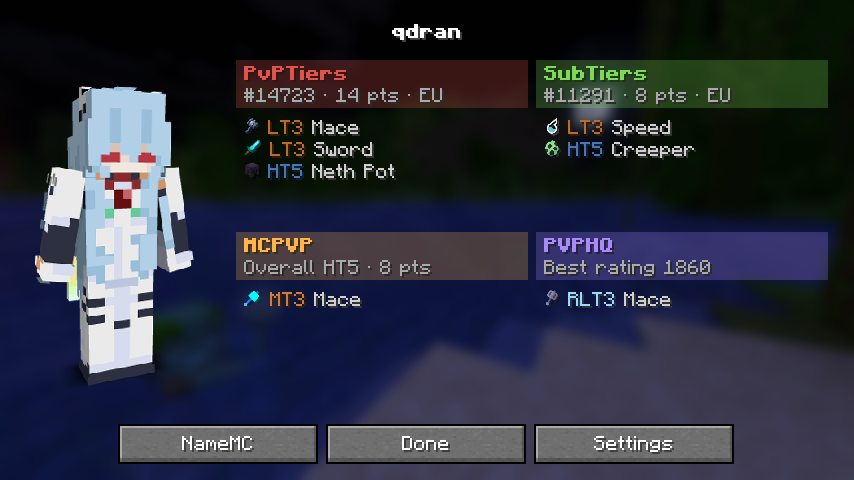
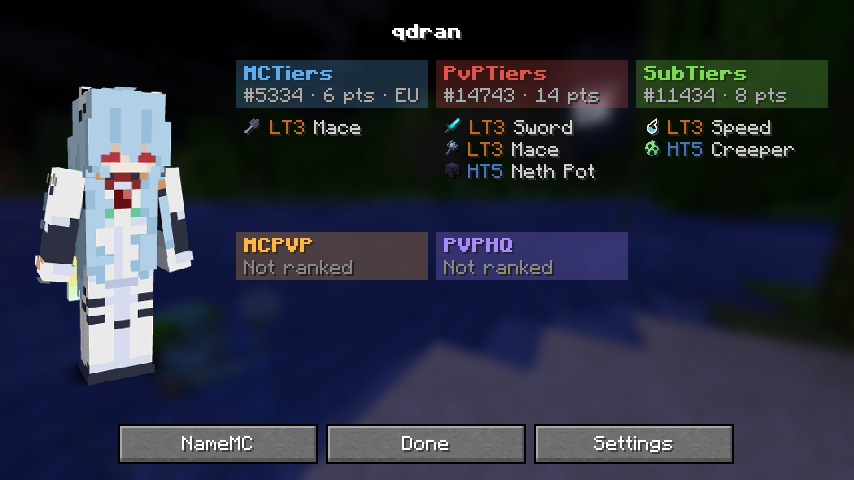
Bring back MCTiers via mctiers.gg
MCTiers returned at mctiers.gg with its API at /api/profile/<uuid> and
/api/profile/by-name/<name> (same format as before). It sends Neth OP
twice ("nethop" and "neth_pot"), so the duplicate is merged. Uses
MCTiers' own icons from mctiers.gg/tier_icons, defaults to the left of
the name, and gets a gamemode-cycle keybind. The profile screen uses
three columns for five sites; the settings screen shrinks its buttons
slightly on short windows so five sites still fit.

Changed region(s): [[0.274, 0.125, 0.9438, 0.375], [0.274, 0.4688, 0.9742, 0.6562]]

diff --git a/src/main/java/dev/qtiers/QTiersConfigScreen.java b/src/main/java/dev/qtiers/QTiersConfigScreen.java
@@ -19,11 +19,13 @@ import java.util.function.Consumer;
 public class QTiersConfigScreen extends Screen {
     private static final int BUTTON_W = 150;
     private static final int BUTTON_H = 20;
+    private static final int COMPACT_BUTTON_H = 18;
     private static final int GAP = 4;
-    // Full layout needs ~292px; shorter windows (e.g. GUI scale 2 on 480p) use tight spacing and no subtitle
-    private static final int FULL_LAYOUT_HEIGHT = 296;
+    // Full layout needs ~316px; shorter windows (e.g. GUI scale 2 on 480p) use smaller buttons, tight spacing and no subtitle
+    private static final int FULL_LAYOUT_HEIGHT = 320;
 
     private int rowGap = GAP;
+    private int buttonH = BUTTON_H;
     private boolean compact;
 
     private final @Nullable Screen parent;
@@ -40,6 +42,7 @@ public class QTiersConfigScreen extends Screen {
         int right = width / 2 + GAP / 2;
         compact = height < FULL_LAYOUT_HEIGHT;
         rowGap = compact ? 1 : GAP;
+        buttonH = compact ? COMPACT_BUTTON_H : BUTTON_H;
         int sectionGap = compact ? 1 : 8;
         int y = compact ? 17 : 40;
 
@@ -49,28 +52,28 @@ public class QTiersConfigScreen extends Screen {
             Text label = Text.literal(source.displayName).styled(s -> s.withColor(source.color));
             addDrawableChild(CyclingButtonWidget.<Position>builder(QTiersConfigScreen::positionText, site.position)
                     .values(Arrays.asList(Position.values()))
-                    .build(left, y, BUTTON_W, BUTTON_H, label, (b, v) -> {
+                    .build(left, y, BUTTON_W, buttonH, label, (b, v) -> {
                         site.position = v;
                         QTiersConfig.save();
                     }));
             List<String> modes = GameModes.cycleFor(source);
             addDrawableChild(CyclingButtonWidget.<String>builder(mode -> GameModes.styledName(source, mode), site.gamemode)
                     .values(modes)
-                    .build(right, y, BUTTON_W, BUTTON_H, Text.literal("Mode"), (b, v) -> {
+                    .build(right, y, BUTTON_W, buttonH, Text.literal("Mode"), (b, v) -> {
                         site.gamemode = v;
                         QTiersConfig.save();
                     }));
-            y += BUTTON_H + rowGap;
+            y += buttonH + rowGap;
         }
 
         y += sectionGap;
         addDrawableChild(CyclingButtonWidget.<HighestMode>builder(QTiersConfigScreen::highestText, config.highestMode)
                 .values(Arrays.asList(HighestMode.values()))
-                .build(left, y, BUTTON_W * 2 + GAP, BUTTON_H, Text.literal("Show highest tier"), (b, v) -> {
+                .build(left, y, BUTTON_W * 2 + GAP, buttonH, Text.literal("Show highest tier"), (b, v) -> {
                     config.highestMode = v;
                     QTiersConfig.save();
                 }));
-        y += BUTTON_H + rowGap;
+        y += buttonH + rowGap;
 
         y = toggle(left, y, "Enabled", config.enabled, v -> config.enabled = v, false);
         y = toggle(right, y, "Gamemode icons", config.showIcons, v -> config.showIcons = v, true);
@@ -80,21 +83,21 @@ public class QTiersConfigScreen extends Screen {
         y = toggle(right, y, "Colored separator", config.coloredSeparator, v -> config.coloredSeparator = v, true);
         y = toggle(left, y, "Show retired", config.showRetired, v -> config.showRetired = v, false);
         addDrawableChild(ButtonWidget.builder(Text.literal("Refresh tiers"), b -> TierApi.clearCache())
-                .dimensions(right, y, BUTTON_W, BUTTON_H).build());
-        y += BUTTON_H + rowGap + sectionGap;
+                .dimensions(right, y, BUTTON_W, buttonH).build());
+        y += buttonH + rowGap + sectionGap;
 
         addDrawableChild(ButtonWidget.builder(Text.translatable("gui.done"), b -> close())
-                .dimensions(width / 2 - 100, Math.min(y, height - 28), 200, BUTTON_H).build());
+                .dimensions(width / 2 - 100, Math.min(y, height - 28), 200, buttonH).build());
     }
 
     /** Adds an on/off button; returns the next row's y once the right column is filled. */
     private int toggle(int x, int y, String name, boolean value, Consumer<Boolean> setter, boolean endsRow) {
         addDrawableChild(CyclingButtonWidget.onOffBuilder(value)
-                .build(x, y, BUTTON_W, BUTTON_H, Text.literal(name), (b, v) -> {
+                .build(x, y, BUTTON_W, buttonH, Text.literal(name), (b, v) -> {
                     setter.accept(v);
                     QTiersConfig.save();
                 }));
-        return endsRow ? y + BUTTON_H + rowGap : y;
+        return endsRow ? y + buttonH + rowGap : y;
     }
 
     private static Text positionText(Position p) {

diff --git a/src/main/java/dev/qtiers/TierParsers.java b/src/main/java/dev/qtiers/TierParsers.java
@@ -55,6 +55,19 @@ final class TierParsers {
         return Optional.of(new TierProfile(strOr(json, "name", ""), summary, region(strOr(json, "region", "")), rankings));
     }
 
+    // ---------- MCTiers (mctiers.gg): same format, but Neth OP is sent twice, as "nethop" and "neth_pot" ----------
+
+    static Optional<TierProfile> mctiers(int status, URI uri, String body) {
+        return tierList(status, uri, body).map(p -> {
+            Map<String, Ranking> rankings = new LinkedHashMap<>(p.rankings());
+            Ranking alias = rankings.remove("neth_pot");
+            if (alias != null && !rankings.containsKey("nethop")) {
+                rankings.put("nethop", new Ranking("nethop", alias.tier(), alias.pos(), alias.peakTier(), alias.peakPos(), alias.retired()));
+            }
+            return new TierProfile(p.name(), p.summary(), p.region(), rankings);
+        });
+    }
+
     // ---------- PVPHQ: {"name", "regions": [...], "ranked": [{gametype, tier: "LT3", unranked, inactive, rating}], "best": {...}} ----------
 
     static Optional<TierProfile> pvphq(int status, URI uri, String body) {

diff --git a/src/main/java/dev/qtiers/GameModes.java b/src/main/java/dev/qtiers/GameModes.java
@@ -23,6 +23,7 @@ public final class GameModes {
     private static final Map<String, Mode> MODES = Map.ofEntries(
             mode("axe", "Axe", 0x55FF55),
             mode("mace", "Mace", 0xAAAAAA),
+            mode("nethop", "Neth OP", 0x7D4A40),
             mode("neth_pot", "Neth Pot", 0x7D4A40),
             mode("netherite_pot", "Neth Pot", 0x7D4A40),
             mode("pot", "Pot", 0xFF0000),
@@ -53,6 +54,7 @@ public final class GameModes {
             mode("end_game", "End Game", 0xB070E0));
 
     private static final Map<TierSource, List<String>> BY_SOURCE = Map.of(
+            TierSource.MCTIERS, List.of("vanilla", "uhc", "pot", "nethop", "smp", "sword", "axe", "mace"),
             TierSource.PVPTIERS, List.of("crystal", "sword", "uhc", "pot", "neth_pot", "smp", "axe", "mace"),
             TierSource.SUBTIERS, List.of("minecart", "dia_crystal", "debuff", "elytra", "speed", "creeper",
                     "manhunt", "dia_smp", "bow", "bed", "og_vanilla", "trident"),

diff --git a/src/main/java/dev/qtiers/QTiersProfileScreen.java b/src/main/java/dev/qtiers/QTiersProfileScreen.java
@@ -131,10 +131,10 @@ public class QTiersProfileScreen extends Screen {
         int skinPanel = Math.max(90, width / 4);
         renderSkin(context, 10, top, skinPanel - 10, bottom - top);
 
-        // Sites in a 2-column grid (4 sites = 2x2), each panel getting an equal share of the height
+        // Sites in a grid (4 sites = 2x2, 5-6 sites = 3 columns), each panel getting an equal share of the height
         TierSource[] sources = TierSource.values();
         int gridX = skinPanel + 10;
-        int cols = 2;
+        int cols = sources.length > 4 ? 3 : 2;
         int rows = (sources.length + cols - 1) / cols;
         int cellW = (width - gridX - 10) / cols;
         int cellH = (bottom - top) / rows;

diff --git a/src/main/java/dev/qtiers/TierSource.java b/src/main/java/dev/qtiers/TierSource.java
@@ -5,6 +5,10 @@ import java.util.function.Function;
 
 /** The tier-list websites, where to look players up, and how to read each site's answer. */
 public enum TierSource {
+    MCTIERS("MCTiers", "MC", 0x5DADEC,
+            uuid -> "https://mctiers.gg/api/profile/" + undashed(uuid),
+            name -> "https://mctiers.gg/api/profile/by-name/" + name,
+            TierParsers::mctiers),
     PVPTIERS("PvPTiers", "PVP", 0xE0544E,
             uuid -> "https://pvptiers.com/api/profile/" + undashed(uuid),
             name -> "https://pvptiers.com/api/search_profile/" + name,

diff --git a/src/main/java/dev/qtiers/QTiers.java b/src/main/java/dev/qtiers/QTiers.java
@@ -46,6 +46,7 @@ public class QTiers implements ClientModInitializer {
     public void onInitializeClient() {
         QTiersConfig.load();
 
+        CYCLE_KEYS.put(TierSource.MCTIERS, key("cycle_mctiers", GLFW.GLFW_KEY_UNKNOWN));
         CYCLE_KEYS.put(TierSource.PVPTIERS, key("cycle_pvptiers", GLFW.GLFW_KEY_UNKNOWN));
         CYCLE_KEYS.put(TierSource.SUBTIERS, key("cycle_subtiers", GLFW.GLFW_KEY_UNKNOWN));
         CYCLE_KEYS.put(TierSource.MCPVP, key("cycle_mcpvp", GLFW.GLFW_KEY_UNKNOWN));

diff --git a/src/main/java/dev/qtiers/QTiersConfig.java b/src/main/java/dev/qtiers/QTiersConfig.java
@@ -47,6 +47,7 @@ public final class QTiersConfig {
 
     private static Map<TierSource, SiteSettings> defaultSites() {
         Map<TierSource, SiteSettings> map = new EnumMap<>(TierSource.class);
+        map.put(TierSource.MCTIERS, new SiteSettings(Position.LEFT));
         map.put(TierSource.PVPTIERS, new SiteSettings(Position.LEFT));
         map.put(TierSource.SUBTIERS, new SiteSettings(Position.RIGHT));
         map.put(TierSource.MCPVP, new SiteSettings(Position.RIGHT));

diff --git a/README.md b/README.md
@@ -2,17 +2,17 @@
 
 # QTiers
 
-A Fabric client mod for **Minecraft 1.21.11**. It shows **PvPTiers**, **SubTiers**, **MCPVP** and **PVPHQ** rankings together next to player names. It works like TierTagger, but for all four sites at once.
+A Fabric client mod for **Minecraft 1.21.11**. It shows **MCTiers**, **PvPTiers**, **SubTiers**, **MCPVP** and **PVPHQ** rankings together next to player names. It works like TierTagger, but for all five sites at once.
 
 ```
-⚔HT3 | Steve | ⛏HT4 ⚔MT3 🪓LT2
-PvPTiers        SubTiers MCPVP PVPHQ
+⚔HT2 ⚔HT3 | Steve | ⛏HT4 ⚔MT3 🪓LT2
+MCTiers PvPTiers        SubTiers MCPVP PVPHQ
 ```
 
 ![Profile screen](profile-screen.png)
 
 ## Features
-- **All 4 sites at once** in nametags and the tab list. Put each site on the **left** or **right** of the name, or turn it **off**.
+- **All 5 sites at once** in nametags and the tab list. Put each site on the **left** or **right** of the name, or turn it **off**.
 - **Player profile screen** (`/qtiers <player>`): a full-body skin render, plus every tier, peak, points, rank and region from every site. It has a button to open the player's NameMC page.
 - **A separate gamemode for each site**, or **Highest**. Fallback rules match TierTagger: *Never*, *If not ranked in mode*, or *Always*.
 - **Each tier list has its own icons**, taken from its own website. Tiers use **MCPVP's colors** for High/Mid/Low tiers 1–6 (HT1 gold, HT2 silver, HT3 orange, HT4 green, HT5 blue, HT6 brown). Retired tiers show as `RHT1` in light blue.
@@ -28,7 +28,7 @@ PvPTiers        SubTiers MCPVP PVPHQ
 | Action | Default |
 |---|---|
 | Open nearest player's tiers | H |
-| Cycle PvPTiers / SubTiers / MCPVP / PVPHQ gamemode | unbound |
+| Cycle MCTiers / PvPTiers / SubTiers / MCPVP / PVPHQ gamemode | unbound |
 | Toggle QTiers | unbound |
 | Open settings | unbound |
 
@@ -42,9 +42,9 @@ gradlew build
 The jar is written to `build/libs/`.
 
 ## Credits
-- Gamemode icons: from each tier list's own website ([PvPTiers](https://pvptiers.com), [SubTiers](https://subtiers.net), [MCPVP](https://www.mcpvp.com), [PVPHQ](https://pvphq.com)). They belong to those sites.
+- Gamemode icons: from each tier list's own website ([MCTiers](https://mctiers.gg), [PvPTiers](https://pvptiers.com), [SubTiers](https://subtiers.net), [MCPVP](https://www.mcpvp.com), [PVPHQ](https://pvphq.com)). They belong to those sites.
 - Tier colors: from mcpvp.com.
-- Tier data: [PvPTiers](https://pvptiers.com) and [SubTiers](https://subtiers.net) public APIs, the [PVPHQ](https://pvphq.com) API, and public [MCPVP](https://www.mcpvp.com) profile pages (MCPVP has no API).
+- Tier data: [MCTiers](https://mctiers.gg), [PvPTiers](https://pvptiers.com) and [SubTiers](https://subtiers.net) public APIs, the [PVPHQ](https://pvphq.com) API, and public [MCPVP](https://www.mcpvp.com) profile pages (MCPVP has no API).
 - Skin renders: [Visage](https://visage.surgeplay.com), with [mc-heads](https://mc-heads.net) as the fallback.
 - The layout idea and profile screen come from [PvPTiers/Tiers](https://github.com/PvPTiers/Tiers). No Tiers code or textures are used.
 

diff --git a/CHANGELOG.md b/CHANGELOG.md
@@ -1,5 +1,15 @@
 # Changelog
 
+## Unreleased
+
+### Added
+- **MCTiers is back.** MCTiers has returned at [mctiers.gg](https://mctiers.gg), so its tiers show again, loaded from its new API, with MCTiers' own icons from mctiers.gg. It appears on the left of the name by default; you can move it or turn it off in `/qtiers`.
+- A keybind to cycle the MCTiers gamemode.
+
+### Changed
+- The profile screen shows the five sites in three columns.
+- The settings screen fits all five sites on small windows.
+
 ## 1.3.0 (2026-10-08)
 
 ### Added
